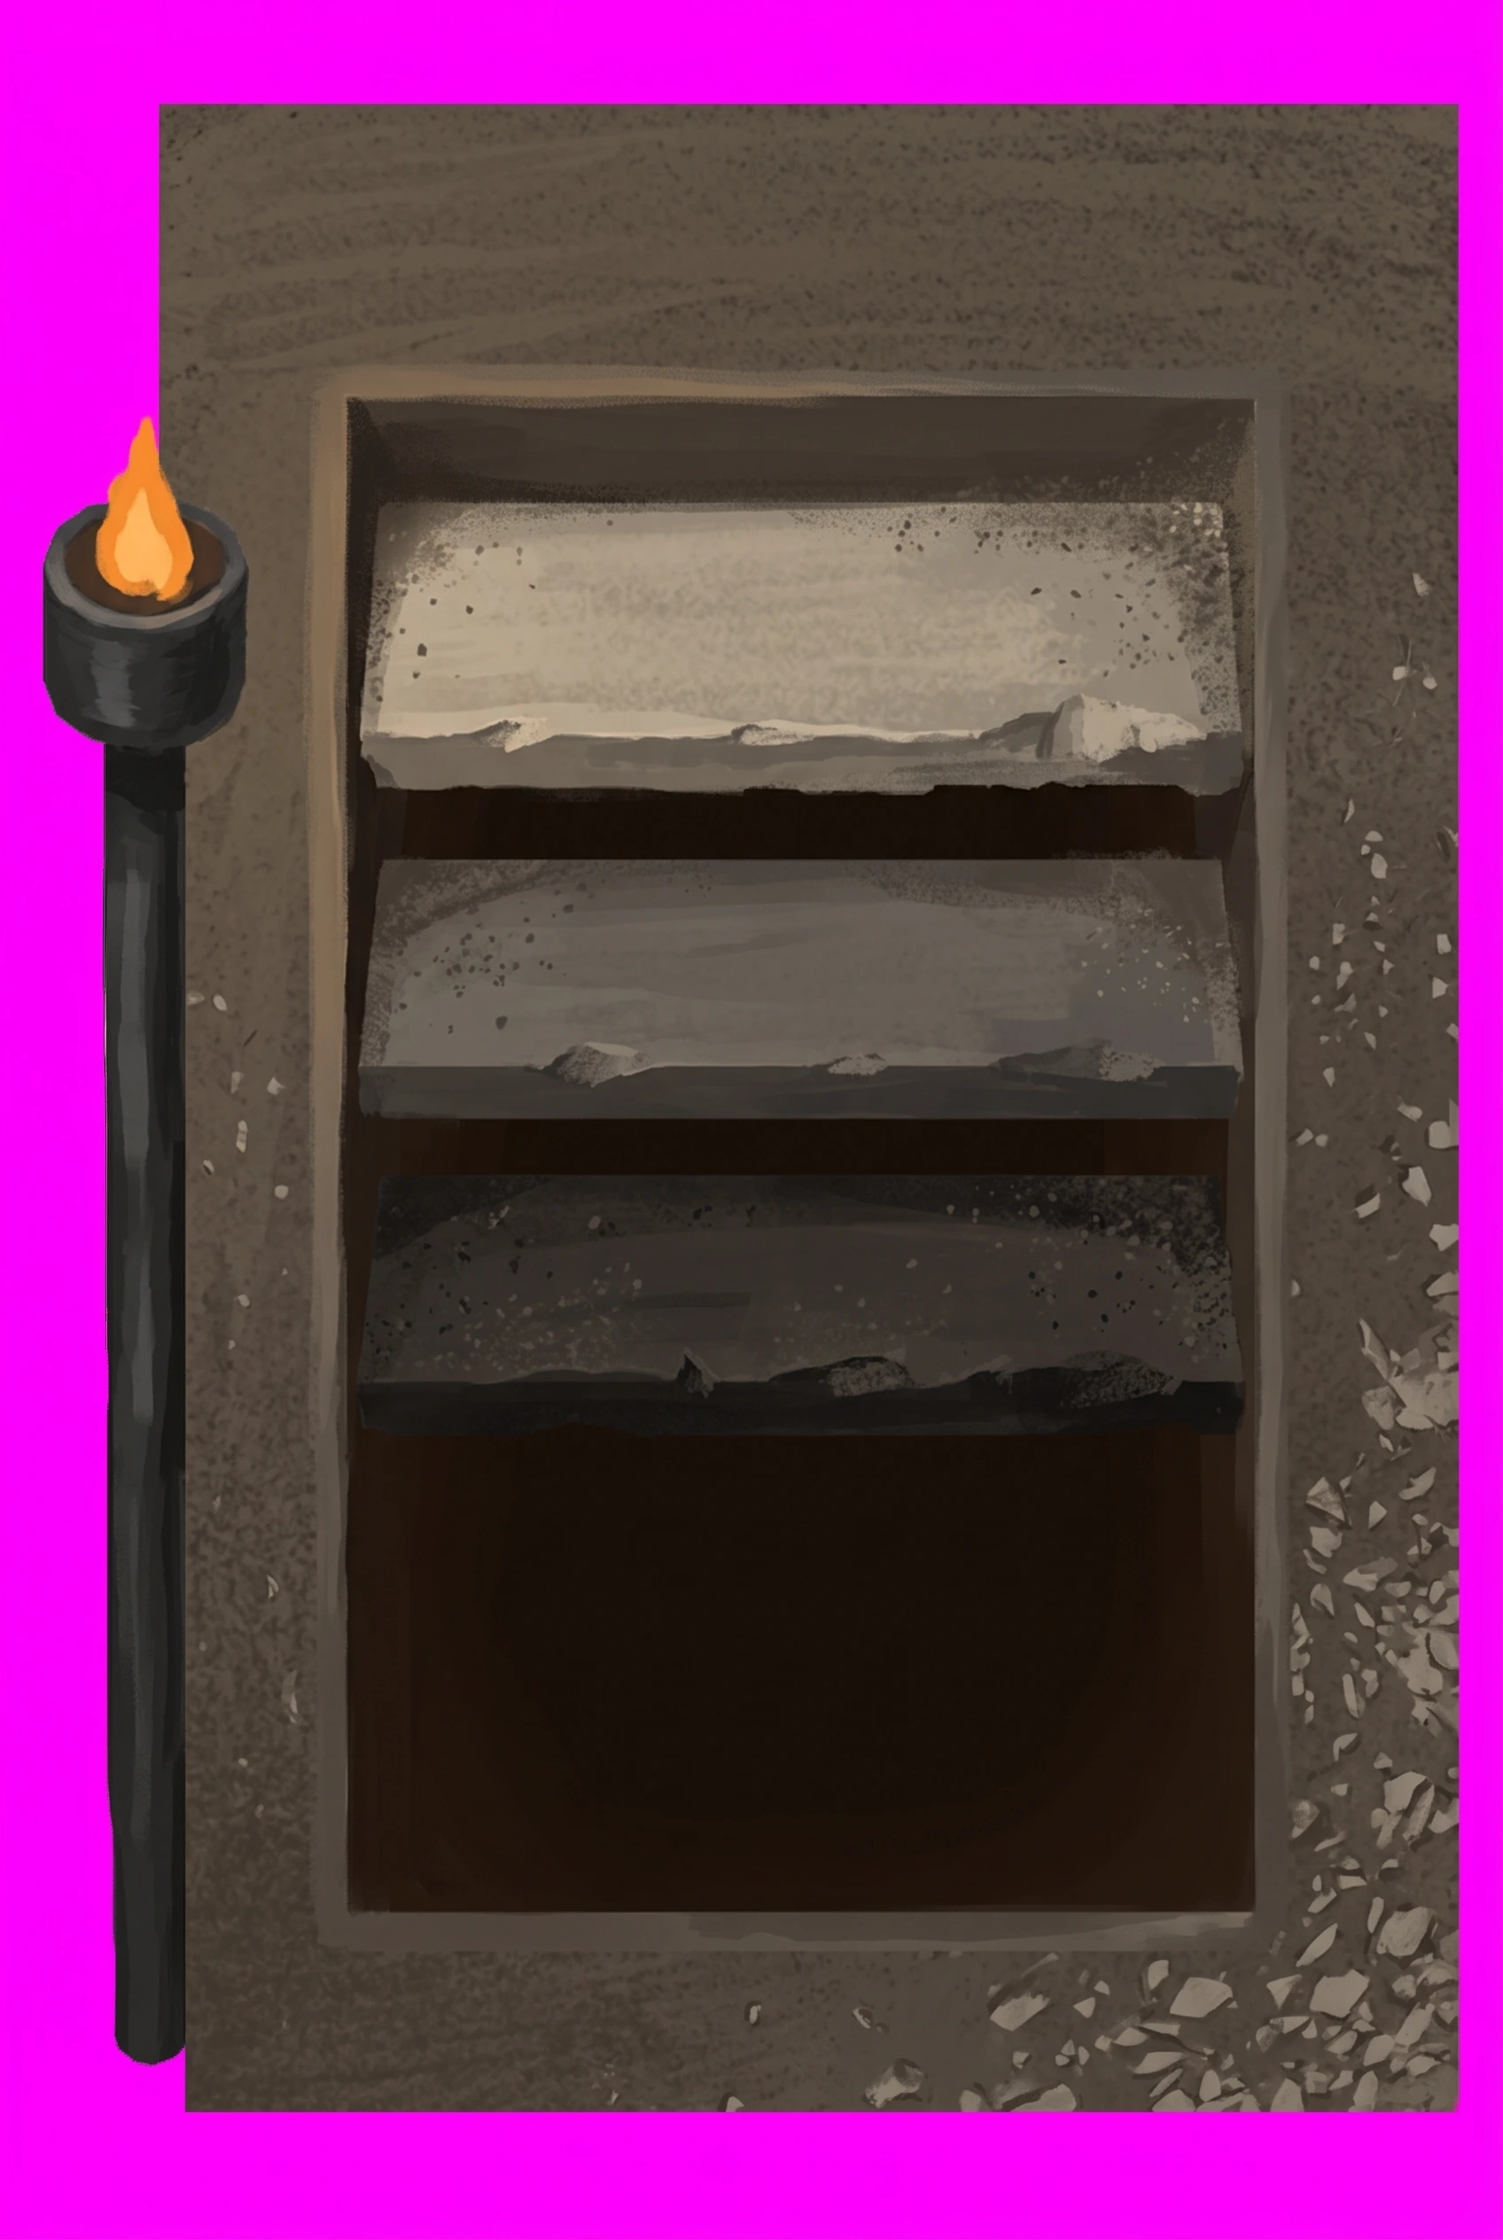
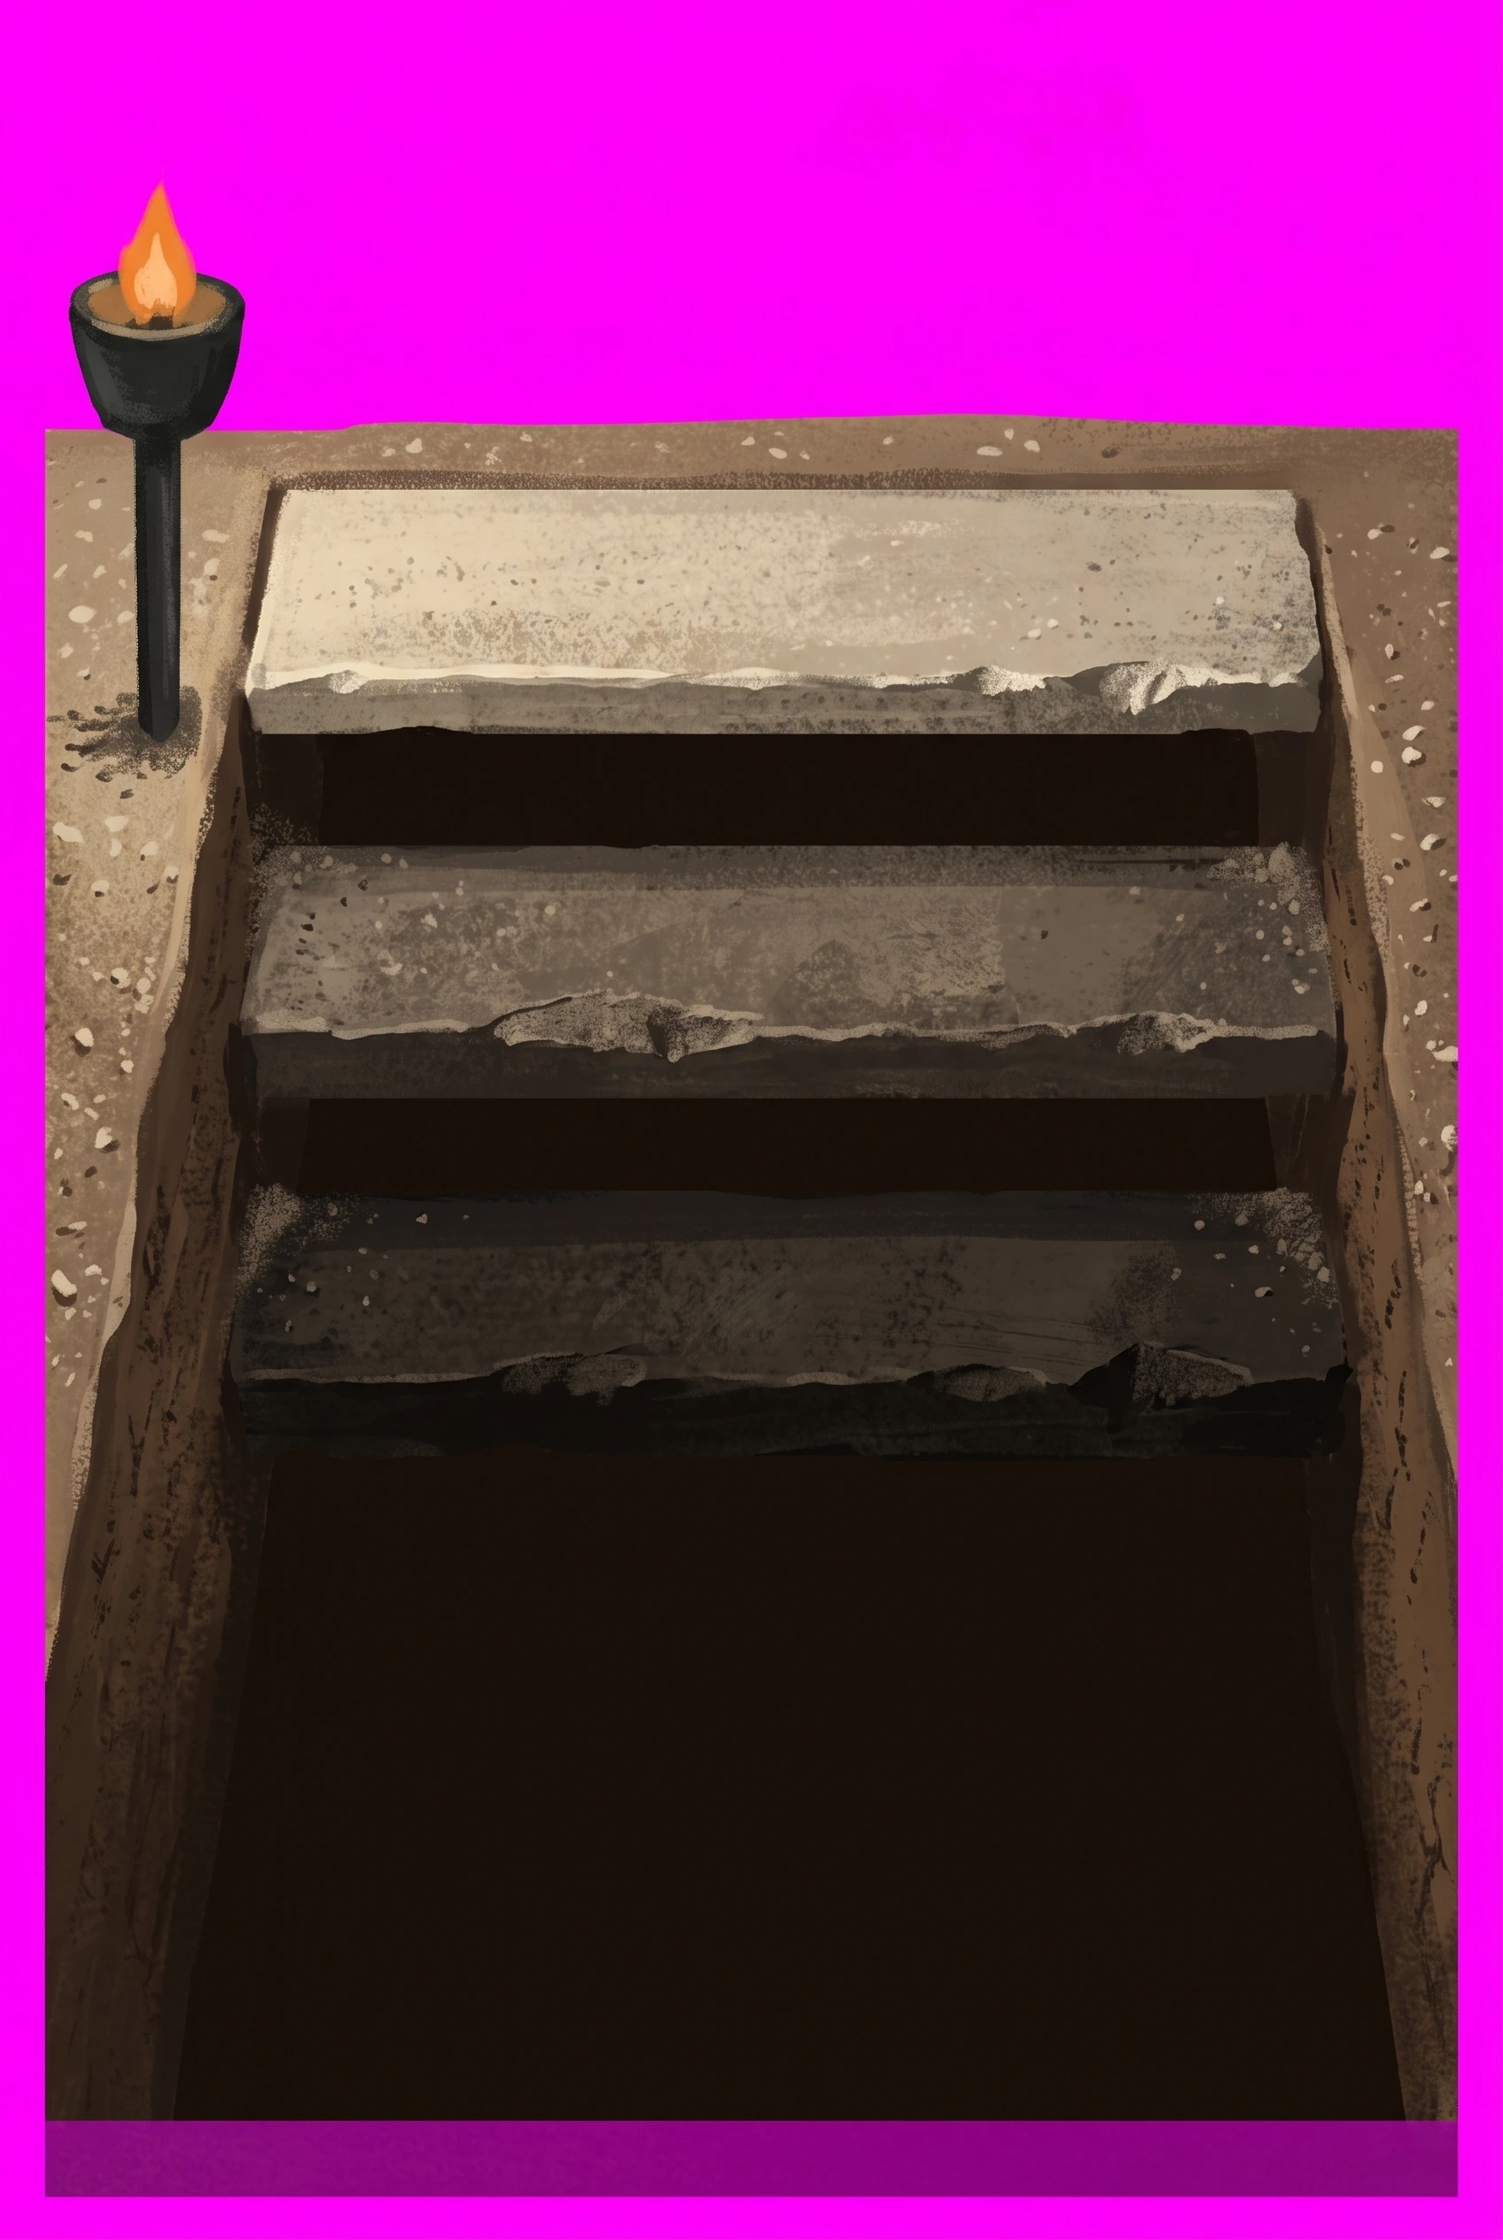
docs: the stairs are half built, and one generic set serves five ranks
tileUrl already falls back tier/<name> to default/<name>, so three files in
tiles/default/ serve every rank and a rank can override one later by dropping a
file in. Records what two rolls cost: a scaffold framed unlike the picture a
painter wants to draw comes back a close-up, and the mask keeps thin bars where
the paint has shaft.

Claude-Session: https://claude.ai/code/session_012xEDDaoPZfWQpQUSbuj7W8

diff --git a/scripts/renderProp.py b/scripts/renderProp.py
@@ -1456,7 +1456,7 @@ def prim_pit():
     return join_all()
 
 
-def _stair_torch(x, y):
+def _stair_torch(x, y, scale=1.0):
     """A cresset standing beside a stair mouth, and the reason the flight is graded at all.
 
     A hole gets no light — its walls stand in the y-z plane and draw as lines, so `--sun` has nothing
@@ -1472,10 +1472,13 @@ def _stair_torch(x, y):
     # SHORT, because `seat_and_normalise` scales the whole object to one unit tall: a cresset at head
     # height is the tallest thing in the frame and shrinks the hole it is meant to light. At 0.30 it
     # stands beside the mouth instead of over it.
-    mark(cyl(0.030, 0.30, x=x, y=y, z=0.15, verts=10), "metal")
-    mark(cyl(0.070, 0.08, x=x, y=y, z=0.33, verts=12), "metal")
+    # `scale` exists because a painted tile's mask can never move. The flight that walks ACROSS was
+    # painted over the full-height cresset and keeps it; the one coming toward the viewer took a
+    # shorter one so the OPENING dominates the frame, which is what a painter draws when handed this.
+    mark(cyl(0.030 * scale, 0.30 * scale, x=x, y=y, z=0.15 * scale, verts=10), "metal")
+    mark(cyl(0.070 * scale, 0.08 * scale, x=x, y=y, z=0.33 * scale, verts=12), "metal")
     # The flame is a shape, not a light: an accent-coloured mass the repaint knows to burn.
-    mark(box(0.085, 0.07, 0.11, x=x, y=y, z=0.42), "accent")
+    mark(box(0.085 * scale, 0.07 * scale, 0.11 * scale, x=x, y=y, z=0.42 * scale), "accent")
 
 
 def prim_stair():
@@ -1504,7 +1507,7 @@ def prim_stair():
     """
     k = 0.7
     if arg("contents") == "down":
-        w, d = 0.92, 0.62  # the opening
+        w, d = 0.98, 0.74  # the opening
         hv = k * d
         # The shaft behind the steps: the far wall alone, filling the drawn opening, marked VOID so it
         # renders near-black before any paint reaches it.
@@ -1516,8 +1519,8 @@ def prim_stair():
             # Three values, one per tread: paving, stone in shade, and then the shaft's own dark, so the
             # last step is already going out of sight. That falloff is what a hole cannot get from the
             # lamp — its walls stand in the y-z plane and draw as lines, so no light reaches down it.
-            mark(box(w - 0.14, 0.10, 0.035, y=(d / 2) - 0.13 - i * 0.10, z=-0.05 - i * 0.07), ("body", "deep", VOID)[i])
-        _stair_torch(-(w / 2) + 0.02, (d / 2) - 0.04)
+            mark(box(w - 0.10, 0.14, 0.05, y=(d / 2) - 0.16 - i * 0.14, z=-0.06 - i * 0.10), ("body", "deep", VOID)[i])
+        _stair_torch(-(w / 2) + 0.02, (d / 2) - 0.04, scale=0.68)
         return join_all()
 
     if arg("contents") == "down-side":

diff --git a/docs/instructions/site-map-art-handover.md b/docs/instructions/site-map-art-handover.md
@@ -18,6 +18,12 @@ the branch is in and how to run the next step.
 master byte for byte. Run that last one after touching `renderProp.py` or `importTile.ts`: it is the only
 check that catches a geometry change silently invalidating a master.
 
+**THE STAIRS ARE THE LIVE WORK, and they are half done** — the map draws a flight at a stairhead now,
+aimed by the room's one exit and lit by its own torch. `starter/stair-down-side` has landed;
+`starter/stair-down` is imported but wants one more roll; `starter/stair-up` has never been rolled.
+The plan is ONE GENERIC SET in `tiles/default/` rather than five per-rank sets, and the whole of it is
+in "Stairways and ward gates" below.
+
 **The merchant is DONE** — every prop, wall item and scatter kind he authors is a return painted over its
 own scaffold, stored 2x, cut to a mask, seated in a rendered translucent shadow, and on a rebuild line.
 
@@ -529,40 +535,67 @@ is the workflow: how to check, and how the checking has gone wrong.
 - **The pharaoh's winged disc**, and whatever the gods' "opening with no visible structure" turns out to
   be. Both are `make-arch --ornament` inputs rather than whole gateways.
 
-## Stairways and ward gates — new work, and the decision that comes first
+## Stairways and ward gates — HALF BUILT, and where to pick it up
 
-Wanted for the next release, in neither the queue nor the brief's ~224. What makes them different from
-everything painted so far: **a gate and a stairhead are NODES, not tiles.** Every node on the map is
-hand-coded vector SVG inline in `SiteMapView.tsx` — the gate is a `<rect>` and three bars (`:246`), the
-stairhead an octagon and a stepped path (`:342`), the exit a `<circle>` (`:354`) — and not one of them
-goes anywhere near `tileUrl`. There is no node art in `src/assets/tiles/` at all.
+**Route 1 was taken and the stairs are live**: art under the marker, the marker eased to 0.72 over it.
+A stairhead draws `stair-up` at the floor's own `entrancePos` and `stair-down` anywhere else, takes
+`stair-down-side` where its one exit faces east or west, and mirrors that file in x for a west-facing
+one. The ward GATE is untouched — still the vector `<rect>` and three bars — and is what remains of this
+section's original scope.
 
-Two facts decide the shape of the work:
+**What is painted:** `starter/stair-down-side` (landed, on a rebuild line) and `starter/stair-down`
+(imported, wants one more roll — see the framing law above). `starter/stair-up` has never been rolled.
+Nothing at the other four ranks.
+
+### One generic set, not five — and the renderer already does it
+
+**`tileUrl` falls back `<tier>/<name>` → `default/<name>`** (`tileAssets.ts:20`), which is how the
+explorer and the sand are already shared. So the cheap shape is THREE files in `tiles/default/`, serving
+every rank, with a rank overriding one later by dropping its own file in — no code, no manifest.
+
+Two reasons to prefer that here, beyond the arithmetic of 3 files against 15:
+
+- **A stair is mostly absence.** The tile is a dark shaft with two or three treads and a small cresset;
+  the stone that says which tomb this is surrounds it on the map and is not in the sprite.
+- **It is navigation, not furniture.** The explorer is shared for the same reason — one person walks all
+  five ranks — and a way down reads the same in any tomb.
+
+Where it will show and want an override first: the GODS, whose floor is lit calcite with no dust in it
+and whose every other tile glows, and the PHARAOH's gilding. Take those two when the rest is done, and
+leave the merchant's three as `default/` for the middle ranks.
+
+**The count that sizes the work**: 443 stairheads, and every rank has plenty —
+
+| rank | stairheads | go up | face east/west |
+| --- | --- | --- | --- |
+| merchant | 30 | 15 | 20 |
+| nobleman | 68 | 34 | 36 |
+| priest | 61 | 31 | 34 |
+| pharaoh | 126 | 63 | 69 |
+| gods | 158 | 79 | 74 |
+
+Half of every rank's stairheads are the way back UP, so `stair-up` is not an optional third file — it is
+half the doors in the game.
+
+### What is left, in order
+
+1. **Roll `starter/stair-down` once more** against the re-framed scaffold, and `starter/stair-up` for
+   the first time. `yarn repaint` has both.
+2. **Move the three into `tiles/default/`** once they land, so every rank draws them. That is a rename
+   of the files and the rebuild lines; the renderer needs nothing.
+3. **The ward gate**, which is the untouched half of this section: a gate leaf in its jamb, one primitive,
+   and the same art-under-marker treatment. Its marker carries a key COLOUR as well as state, so the
+   vector stays on top.
+4. **Overrides for the gods and the pharaoh**, if the generic set reads wrong on their stone.
+
+### Two facts that decided the shape
 
 - **A node is a quarter the area of a prop.** `NODE_RADIUS_LARGE` is `CELL * 0.34`, so a node occupies
-  about 38x38 against a prop's 56x84. Paint at that size and most of what the pipeline delivers is gone.
-- **A node's COLOUR carries state, and paint cannot.** `stairFill`, `stairStroke` and `stairIcon`
-  (`:499-518`) are keyed on `CellState` — fogged, visible, reachable, completed — and a floor-key gate is
-  tinted by its key colour on top of that (`:231-257`). Only the ward gate has any rank in it today, and
-  only as an accent tint: `DIFFICULTY_GATE_ACCENT` (`:474-481`), same square and same three bars at all
-  five ranks.
-
-**The decision: do they stay state-coloured markers, or become places?** Three routes, and the first is
-the one to take unless someone argues otherwise:
-
-1. **Art UNDER the marker.** Paint the gate and the stair mouth as tiles on the cell, the way a `pit` is,
-   and keep a smaller vector marker on top for state and key colour. Ten tiles, no state problem, and the
-   marker goes on doing the job it does now.
-2. **Art INSTEAD of the marker, washed by state.** Five tiles a kind instead of ten and `stateWash`
-   recolours them — but a wash over painted stone is the same argument already open under "whether
-   `reachable` should be the brightest state at all".
-3. **Art per state** — 4 states x 2 kinds x 5 ranks = 40 tiles. Not worth it.
-
-On route 1 the cost was two primitives, and **the stair is BUILT: `prim_stair`, `--contents=up` and
-`--contents=down`.** What is left is the gate leaf in its jamb, ten repaints at about a day, and half a
-day to a day of renderer work for the slot and the marker resize. It is RENDER-ONLY: no pool changes any
-length, so no floor regenerates and no placement moves.
-
+  about 38x38 against a prop's 56x84 — which is why the art is a full prop-box sprite UNDER the marker
+  rather than a painted marker.
+- **A node's COLOUR carries state, and paint cannot.** `stairFill`, `stairStroke` and `stairIcon` are
+  keyed on `CellState`, and a floor-key gate is tinted by its key colour on top of that. The marker
+  stays for exactly that reason, eased to `NODE_OVER_ART_OPACITY` where art sits under it.
 **Three things the two flights cost, and none is guessable from the code:**
 
 - **They are not mirror images.** Drawn height is `z + k*y`, so a flight RISING as it recedes separates
@@ -592,6 +625,18 @@ so no lamp reaches down it and `--sun` has nothing to bite on. The descending fl
 generator the falloff already built: tread one is paving (`body`), tread two is stone in shade
 (`deep`, new in `PART_COLOURS`), tread three is the shaft's own `VOID`. Three values say "going down"
 before a word of the prompt does — which is the same argument `prim_pit` makes about a rack's gap.
+
+**FRAME THE SCAFFOLD LIKE THE PICTURE YOU WANT, because scale is what two rolls were lost to.** The
+merchant's descending stair came back twice with its treads masked away, and neither time was the
+painting bad: both were CLOSE-UPS. The scaffold had a tall cresset beside a low opening, so the camera
+fitted the torch and the hole sat in the middle third — and a painter handed that draws the stairs, not
+the empty half. The mask then kept thin bars where the paint had shaft.
+
+Widening the opening to 0.98 x 0.74 and shrinking the cresset to 0.68 of its height made the hole the
+subject, and re-importing the SAME master against the new mask took it from one tread visible to two.
+The rest is a roll. `_stair_torch` takes that scale as an argument rather than being edited in place:
+the flight that walks across was painted over the full-height cresset and a painted tile's mask can
+never move.
 
 **A TORCH AT THE MOUTH IS WHAT MOTIVATES THE FALLOFF.** Graded treads on their own are shading nobody
 asked for; a cresset beside the opening makes the top tread the one the light reaches and every one

diff --git a/docs/instructions/repaint-queue.md b/docs/instructions/repaint-queue.md
@@ -122,9 +122,11 @@ they are what says walkable rather than shaft.
 A wall-less product shot of a single object, painted in flat matte gouache, no background, on pure magenta #FF00FF. Portrait, two units wide by three tall, exactly as the reference. Do not re-compose it into a square. Paint over the reference image itself.
 
 The object: a STAIRCASE going down through the floor of a cellar. The wide dark rectangle is the SHAFT
-the steps go into. The three bars across it are TREADS: the top one is paving, level with the floor and
-lit; the one under it is in shade; the lowest is nearly lost in the dark. The post standing at the left
-of the opening is a TORCH — a plain iron cresset on a spike, with a small flame in its bowl.
+the steps go into, and it fills most of the picture. The three bands across it are TREADS: the top one is
+paving, level with the floor and lit; the one under it is in shade; the lowest is nearly lost in the
+dark. The small post at the upper LEFT, clear of the opening, is a TORCH — a plain iron cresset on a
+spike. It is SMALL: the whole torch is about a fifth of the picture's height, and its flame is a
+thumbnail of orange sitting in the bowl, not above it.
 
 Cut through trodden earth over limestone chips. The treads are re-used limestone slabs, chipped at their
 front edges where feet land, gritty and pale at the top and going grey and then almost black as they
@@ -137,9 +139,11 @@ The torch is dull black iron, its flame a small low orange with no glow, no bloo
 the top tread and the edge of the opening nearest it and nothing else — the light falls off within a
 hand's width, and no light reaches the bottom of the shaft.
 
-THE OPENING AND THE THREE TREADS KEEP EXACTLY THE SIZE AND PLACE THEY HAVE IN THE REFERENCE. Do not
-enlarge the hole, do not move it, and do not shift a tread up or down — each one is painted over the bar
-that is already there. Paint no floor around the opening: what is outside it is background.
+EVERYTHING KEEPS THE SIZE AND PLACE IT HAS IN THE REFERENCE, and this is the one the last two rolls got
+wrong: do not zoom in, do not crop, do not enlarge the hole and do not shift a tread. Each tread is
+painted over the band that is already there, the torch over the post that is already there, and its
+flame inside the bowl that is already there. Paint no floor around the opening: what is outside it is
+background.
 
 Keep every edge, every proportion and every silhouette exactly as in the reference image — do not move, resize, straighten, add, remove or restyle any part of it, and do not change the angle it stands at. Paint only material and wear.
 
